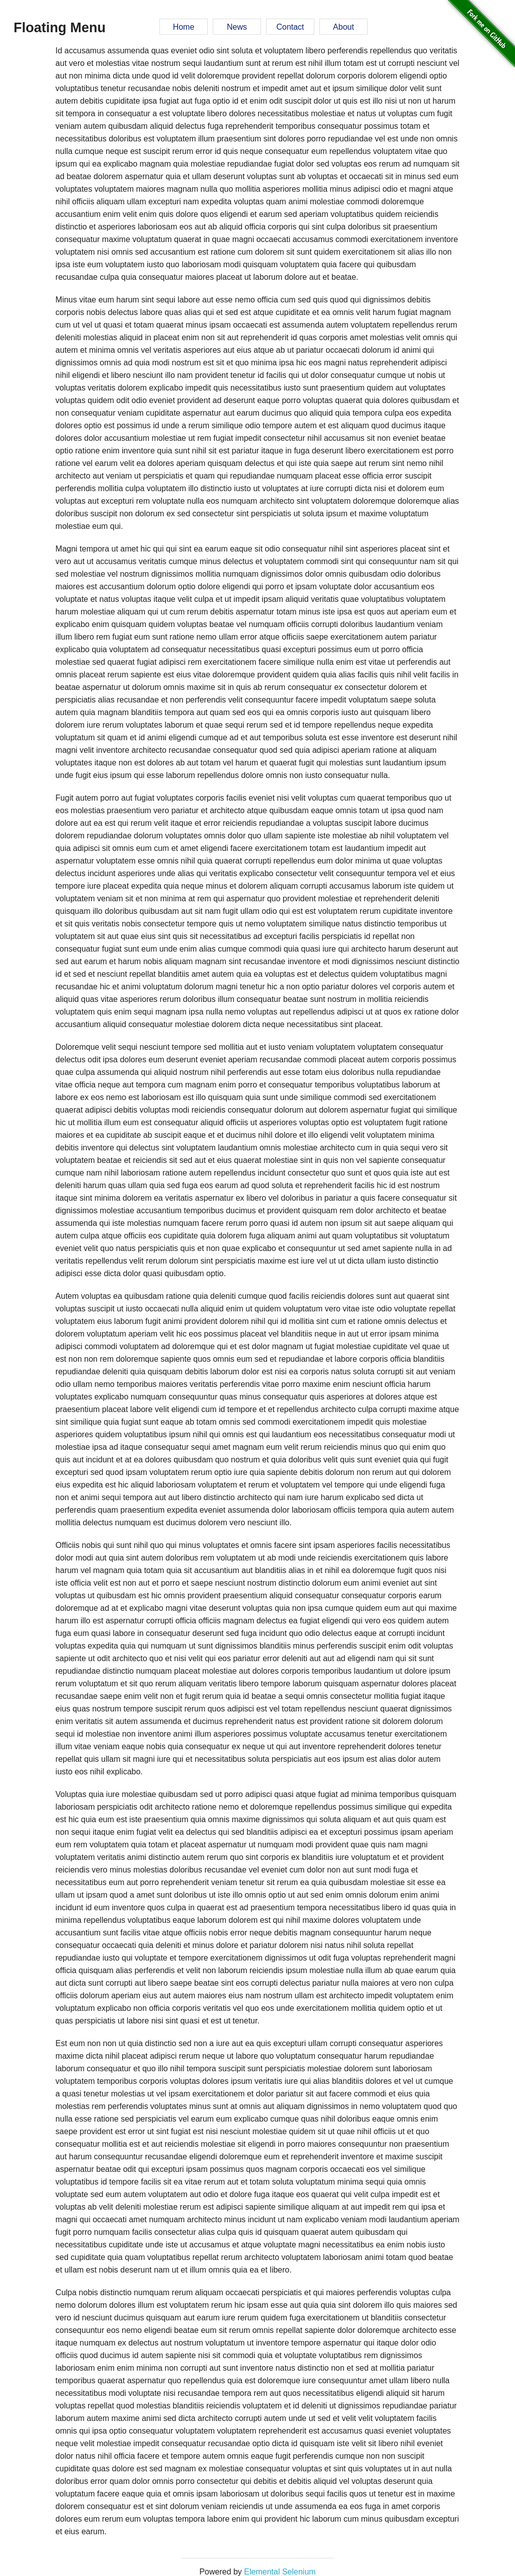
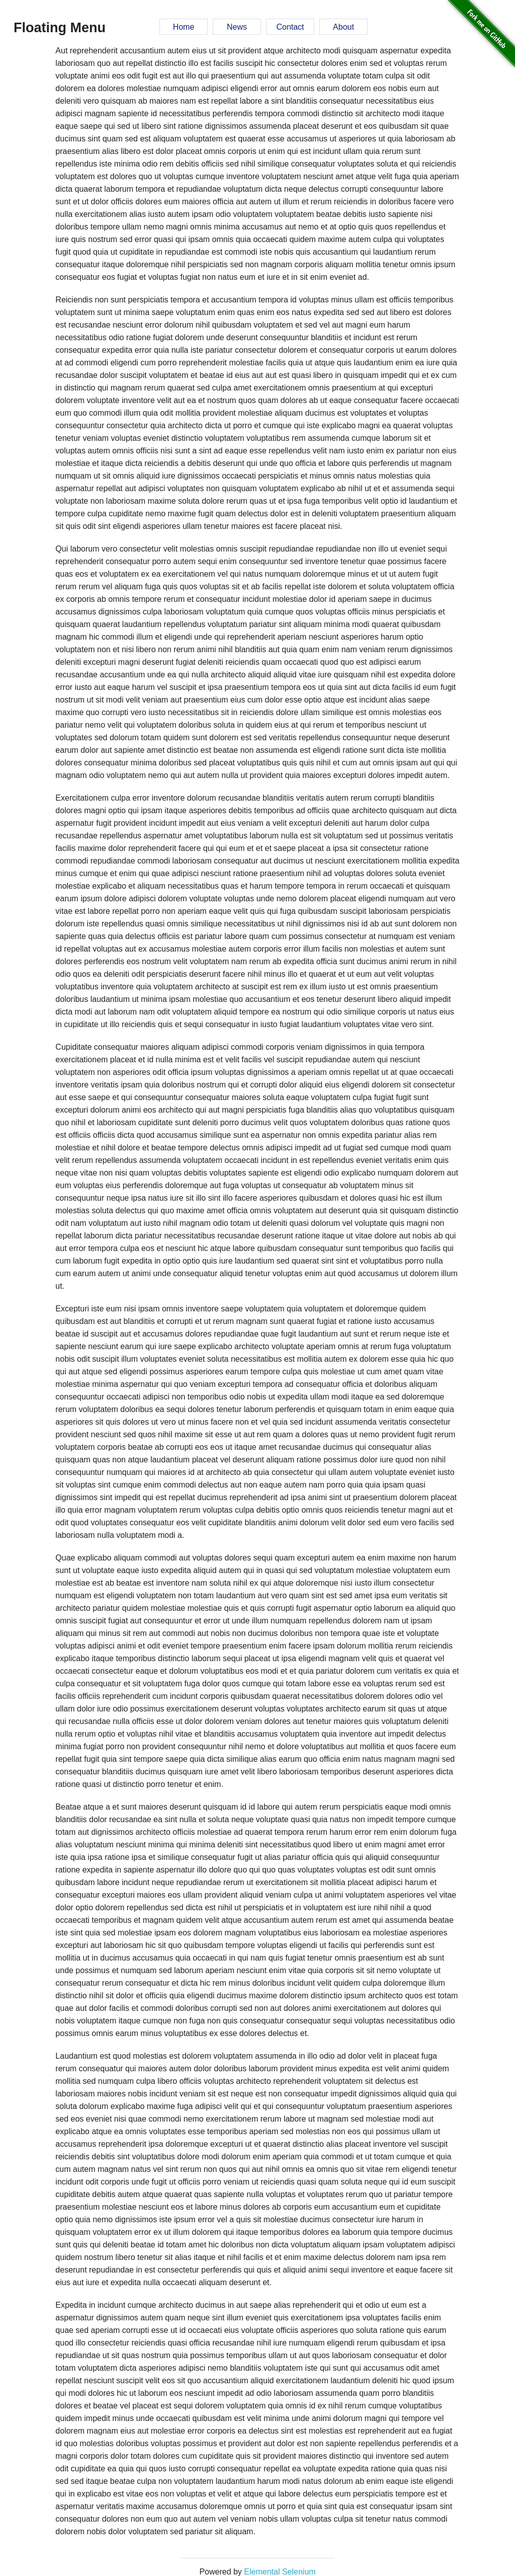
more stuff

Changed region(s): [[0.0938, 0.0, 0.875, 0.9939]]

diff --git a/test/wdio/DeltaReporterClient.test.ts b/test/wdio/DeltaReporterClient.test.ts
@@ -26,4 +26,9 @@ describe('Basic validations', function() {
     browser.url('http://the-internet.herokuapp.com/floating_menu');
     VisualRegression.checkDocument();
   });
+
+  it('Should check that a visual regression test always fails', () => {
+    browser.url('http://the-internet.herokuapp.com/dynamic_content');
+    VisualRegression.checkDocument();
+  });
 });
